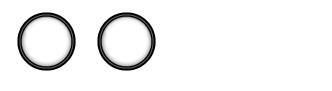
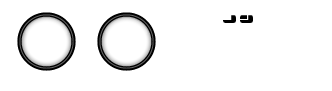
updated buttons

Changed region(s): [[0.6627, 0.1538, 0.7831, 0.2637]]

diff --git a/client/source/templates/lite1/css/buttons.css b/client/source/templates/lite1/css/buttons.css
@@ -3,6 +3,12 @@
 	.fullscreen-button, .unfullscreen-button, .close-button, .comment-button {
 		background-image: url(./images/ft.lite.icons.png);
 		background-repeat: no-repeat;
+		opacity: .5;
+}
+
+.play-button:hover, .pause-button:hover, .scroll-button-left:hover, .scroll-button-right:hover,
+	.fullscreen-button:hover, .unfullscreen-button:hover, .close-button:hover, .comment-button:hover {
+		opacity: .7;
 }
 
 /*these are all 50x50 currently*/	
@@ -44,9 +50,9 @@
 
 
 .close-button {
-	width: 12px;
+	width: 16px;
 	height: 12px;
-	background-position: -172px -13px;
+	background-position: -170px -13px;
 }
 
 .comment-button {
